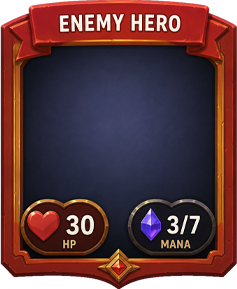
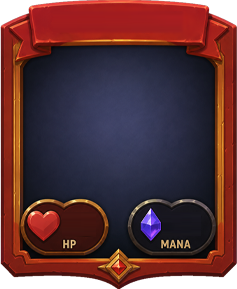
Increase battlefield slots to four

Changed region(s): [[0.2363, 0.0311, 0.7679, 0.1246], [0.2658, 0.7163, 0.4135, 0.8408], [0.7089, 0.7474, 0.8565, 0.8097]]

diff --git a/tests/test_deck.py b/tests/test_deck.py
@@ -280,3 +280,34 @@ def test_only_hero_cards_can_be_played_to_battlefield():
     assert result.message == "Only hero cards can be played to the battlefield"
     assert mana_card in battle_state.player_hand.cards
     assert mana_card not in battle_state.player_board.active_heroes
+
+
+def test_four_player_heroes_can_be_played_to_battlefield():
+    player_hero = Card("Player Hero", "Dark", 30)
+    heroes = [
+        Card("Hero 1", "Nature", 10),
+        Card("Hero 2", "Tech", 10),
+        Card("Hero 3", "Dark", 10),
+        Card("Hero 4", "Neutral", 10),
+        Card("Hero 5", "Nature", 10),
+    ]
+    battle_state = BattleState(
+        player_hero,
+        heroes,
+        starting_hand_size=5,
+        shuffle_deck=False,
+    )
+
+    results = []
+    for hero in heroes[:4]:
+        battle_state.has_played_main_card_this_turn = False
+        results.append(battle_state.play_card_to_player_battlefield(hero))
+
+    battle_state.has_played_main_card_this_turn = False
+    fifth_result = battle_state.play_card_to_player_battlefield(heroes[4])
+
+    assert all(result.success for result in results)
+    assert len(battle_state.player_board.active_heroes) == 4
+    assert not fifth_result.success
+    assert fifth_result.message == "Battlefield is full"
+    assert heroes[4] in battle_state.player_hand.cards

diff --git a/src/screens/battle.py b/src/screens/battle.py
@@ -7,6 +7,8 @@ from src.gameplay.battle_state import BattleState, PlayResult
 
 
 class BattleScreen:
+    BATTLEFIELD_SLOT_COUNT = 4
+
     def __init__(self, game):
         self.game = game
         self.font = pygame.font.SysFont(None, 48)
@@ -44,17 +46,17 @@ class BattleScreen:
         self.player_battlefield_rect = pygame.Rect(int(width * 0.20), int(height * 0.34), int(width * 0.60), int(height * 0.34))
         self.player_battlefield_rect.centerx = width // 2 
 
-        slot_width = int(self.player_battlefield_rect.width * 0.25)
+        slot_width = int(self.player_battlefield_rect.width * 0.20)
         slot_height = int(self.player_battlefield_rect.height * 0.75)
-        slot_gap = int(self.player_battlefield_rect.width * 0.05)
+        slot_gap = int(self.player_battlefield_rect.width * 0.04)
 
-        total_width = (slot_width * 3) + (slot_gap * 2)
+        total_width = (slot_width * self.BATTLEFIELD_SLOT_COUNT) + (slot_gap * (self.BATTLEFIELD_SLOT_COUNT - 1))
         start_x = self.player_battlefield_rect.centerx - total_width // 2
         slot_y = self.player_battlefield_rect.centery - slot_height // 2
 
         self.player_battlefield_slots = []
 
-        for i in range(3):
+        for i in range(self.BATTLEFIELD_SLOT_COUNT):
             slot_rect = pygame.Rect(
                 start_x + i * (slot_width + slot_gap),
                 slot_y,
@@ -68,17 +70,17 @@ class BattleScreen:
         self.enemy_battlefield_rect = pygame.Rect(int(width * 0.20), 0, int(width * 0.60), int(height * 0.34))
         self.enemy_battlefield_rect.centerx = width // 2 
 
-        enemy_slot_width = int(self.enemy_battlefield_rect.width * 0.25)
+        enemy_slot_width = int(self.enemy_battlefield_rect.width * 0.20)
         enemy_slot_height = int(self.enemy_battlefield_rect.height * 0.75)
-        enemy_slot_gap = int(self.enemy_battlefield_rect.width * 0.05)
+        enemy_slot_gap = int(self.enemy_battlefield_rect.width * 0.04)
 
-        enemy_total_width = (enemy_slot_width * 3) + (enemy_slot_gap * 2)
+        enemy_total_width = (enemy_slot_width * self.BATTLEFIELD_SLOT_COUNT) + (enemy_slot_gap * (self.BATTLEFIELD_SLOT_COUNT - 1))
         enemy_start_x = self.enemy_battlefield_rect.centerx - enemy_total_width // 2
         enemy_slot_y = self.enemy_battlefield_rect.centery - enemy_slot_height // 2
 
         self.enemy_battlefield_slots = []
 
-        for i in range(3):
+        for i in range(self.BATTLEFIELD_SLOT_COUNT):
             slot_rect = pygame.Rect(
                 enemy_start_x + i * (enemy_slot_width + enemy_slot_gap),
                 enemy_slot_y,

diff --git a/src/gameplay/board.py b/src/gameplay/board.py
@@ -1,5 +1,5 @@
 class Board:
-    def __init__(self, max_active_heroes=3):
+    def __init__(self, max_active_heroes=4):
         self.max_active_heroes = max_active_heroes
         self.active_heroes = []
 